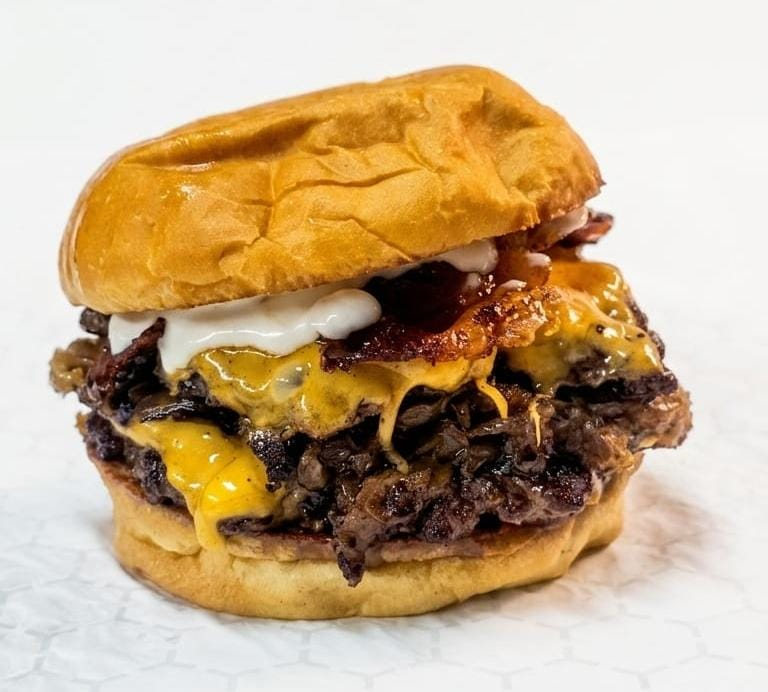
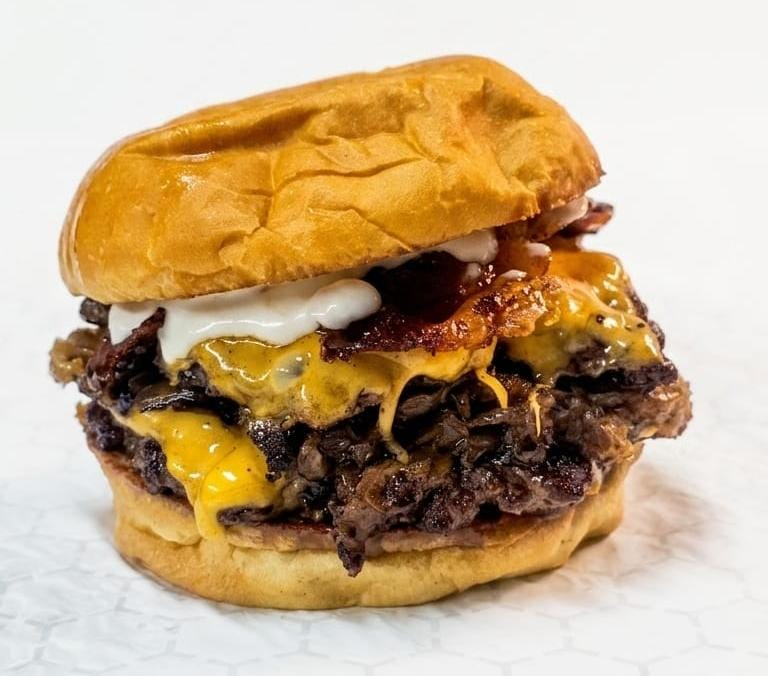
Actualizar imagen de la burger del mes (La Vek) y cache bump

diff --git a/index.html b/index.html
@@ -24,7 +24,7 @@
     <link rel="preconnect" href="https://fonts.gstatic.com" crossorigin>
     <link href="https://fonts.googleapis.com/css2?family=Montserrat:wght@400;600;800;900&family=Playfair+Display:wght@700;900&display=swap" rel="stylesheet">
 
-    <link rel="stylesheet" href="styles.css?v=1.3.2">
+    <link rel="stylesheet" href="styles.css?v=1.3.3">
 </head>
 <body>
 <div class="checkerboard" aria-hidden="true"></div>
@@ -212,6 +212,6 @@
     </div>
 </section>
 
-<script src="app.js?v=1.3.2"></script>
+<script src="app.js?v=1.3.3"></script>
 </body>
 </html>
